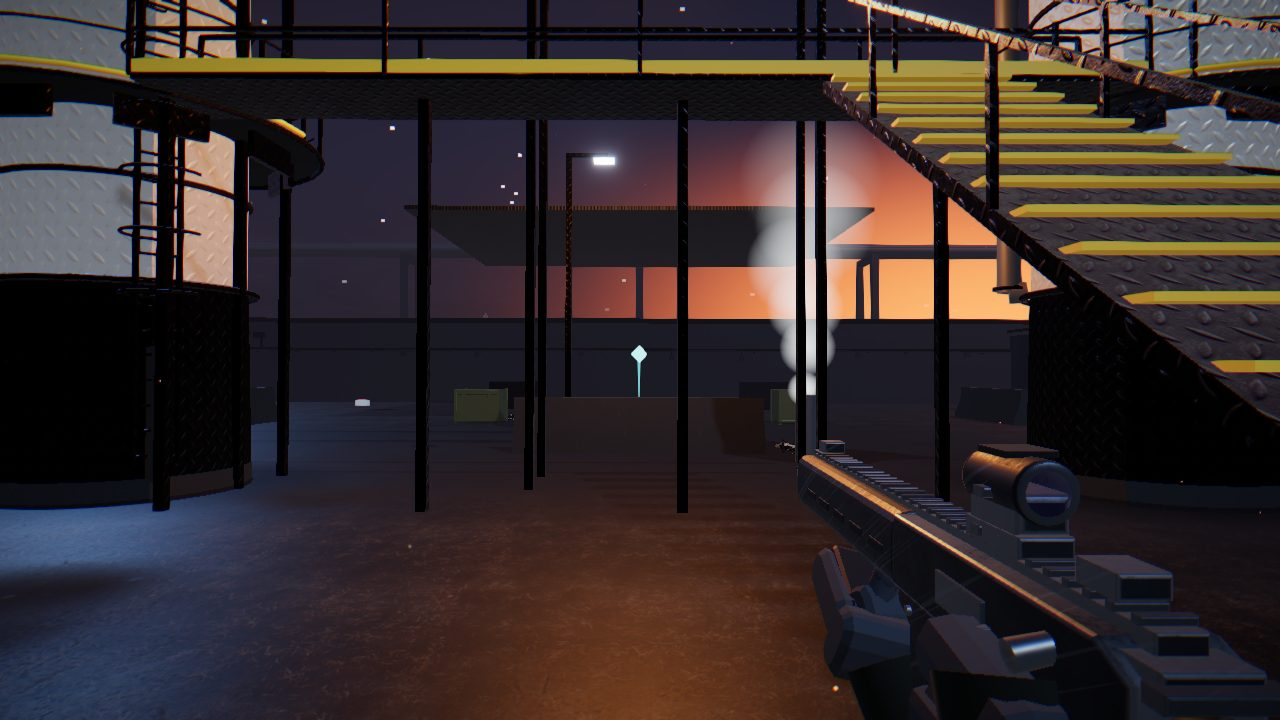
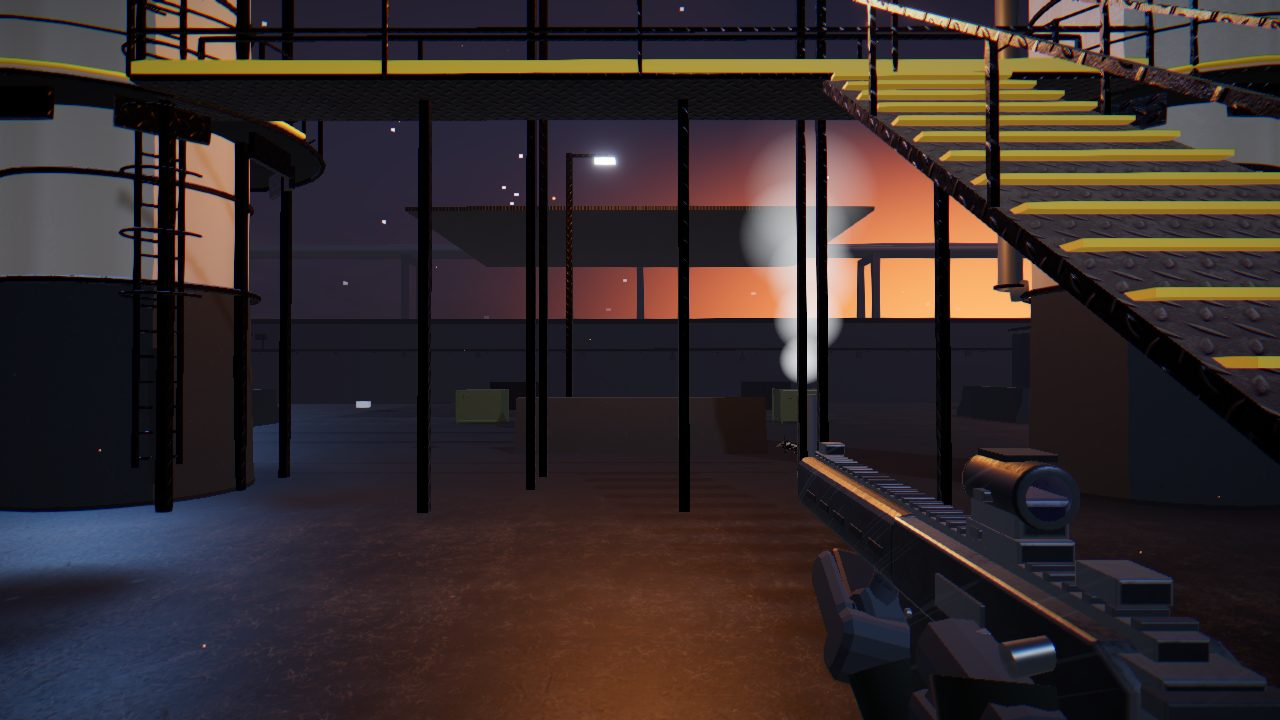
Cinder Yard's tanks hold against a bright sky: weathered toward the base, column skirts in concrete

diff --git a/apps/web/src/engine/scene/refineryKit.ts b/apps/web/src/engine/scene/refineryKit.ts
@@ -205,7 +205,8 @@ export function buildColumn(c: ColumnSpec): KitGeometry {
   const r = c.size / 2 - 0.1, h = c.height, { x, z } = c;
   // Skirt, with a flared base ring and an access opening (a dark recess).
   cyl(out, 'concrete', r + 0.08, r + 0.1, 0.3, x, 0.15, z, 32);
-  cyl(out, 'steel', r + 0.02, r + 0.08, 2.4, x, 1.5, z, 32);
+  // The skirt: fireproofed in concrete, as real column skirts are (tread plate here read as floor plating).
+  cyl(out, 'concrete', r + 0.02, r + 0.08, 2.4, x, 1.5, z, 32);
   ring(out, 'steel', r + 0.12, 0.05, x, 2.7, z, 32);
   box(out, 'dark', 0.9, 1.6, 0.1, x + (r + 0.25) * Math.SQRT1_2, 1.1, z + (r + 0.25) * Math.SQRT1_2, -Math.PI / 4);
   // Vessel with heads.
@@ -400,9 +401,33 @@ export function mergeKit(parts: KitGeometry[]): Partial<Record<KitMaterial, THRE
     });
     const merged = mergeGeometries(flat, false);
     flat.forEach((g) => g.dispose());
+    if (merged && m === 'tank') weather(merged);
     if (merged) { merged.computeBoundingSphere(); out[m] = merged; }
   }
   return out;
+}
+
+/** Grime colour at the base of a painted shell, and the height over which it fades. */
+const GRIME: [number, number, number] = [0.5, 0.43, 0.35];
+const GRIME_FADE = 11;
+
+/**
+ * Baked weathering for painted shells (tanks, column shells, roofs), as vertex
+ * colours multiplied into the paint: dirt and rust bleed toward the base, fading out
+ * by GRIME_FADE metres, uneven around the shell so the gradient between a shell's
+ * bottom and top vertices draws as faint vertical streaks. Free at draw time.
+ */
+export function weather(g: THREE.BufferGeometry): void {
+  const p = g.attributes.position as THREE.BufferAttribute;
+  const c = new Float32Array(p.count * 3);
+  for (let i = 0; i < p.count; i++) {
+    const x = p.getX(i), y = p.getY(i), z = p.getZ(i);
+    // A stable per-position hash: shared vertices (non-indexed copies) agree.
+    const h = Math.abs(Math.sin(Math.round(x * 7) * 12.9898 + Math.round(z * 7) * 78.233) * 43758.5453) % 1;
+    const dirt = Math.min(1, Math.max(0, 1 - y / GRIME_FADE)) * (0.7 + 0.3 * h);
+    for (let k = 0; k < 3; k++) c[i * 3 + k] = 1 - (1 - GRIME[k]) * dirt;
+  }
+  g.setAttribute('color', new THREE.BufferAttribute(c, 3));
 }
 
 /** Triangle count of a kit geometry set (for budgets and tests). */

diff --git a/apps/web/src/engine/scene/LevelArt.tsx b/apps/web/src/engine/scene/LevelArt.tsx
@@ -361,6 +361,11 @@ export function LevelArt({ level, minimal = false, colourOnly = false, lit = tru
       tank: level.id === 'cinder_yard'
         ? tri(painted(concrete), { color: '#a29e94', roughness: 0.6, metalness: 0.35 }, 4.5)
         : tri(plate, { color: '#c8c3b8', roughness: 0.45, metalness: 0.6 }, 2.4),
+      // The kit's tanks and columns carry baked weathering (vertex colours from
+      // refineryKit's mergeKit): the same paint, grimed toward the base.
+      tankKit: level.id === 'cinder_yard'
+        ? tri(painted(concrete), { color: '#969187', roughness: 0.62, metalness: 0.25, vertexColors: true }, 4.5)
+        : tri(plate, { color: '#c8c3b8', roughness: 0.45, metalness: 0.6, vertexColors: true }, 2.4),
       rust: tri(plate, { color: '#7a4a32', roughness: 0.7, metalness: 0.45 }, 2.4),
       pipe: new THREE.MeshStandardMaterial({ color: '#6b6e72', roughness: 0.45, metalness: 0.7 }),
       hazard: new THREE.MeshStandardMaterial({ color: '#c9a227', roughness: 0.6 }),

diff --git a/apps/web/src/engine/scene/RefineryArt.tsx b/apps/web/src/engine/scene/RefineryArt.tsx
@@ -66,7 +66,7 @@ export function buildSiteKit(level: LevelDef): KitGeometry[] {
 export function RefineryArt({ level, mats }: { level: LevelDef; mats: Record<string, THREE.Material> }) {
   const merged = useMemo(() => mergeKit(buildSiteKit(level)), [level]);
   useEffect(() => () => { for (const g of Object.values(merged)) g?.dispose(); }, [merged]);
-  const material = (m: KitMaterial) => (m === 'dark' ? mats.frame : mats[m]) ?? mats.steel;
+  const material = (m: KitMaterial) => (m === 'dark' ? mats.frame : m === 'tank' ? mats.tankKit ?? mats.tank : mats[m]) ?? mats.steel;
   return (
     <group>
       {(Object.entries(merged) as [KitMaterial, THREE.BufferGeometry][]).map(([m, g]) => (

diff --git a/docs/contract-zero/visual-renaissance/REPORT.md b/docs/contract-zero/visual-renaissance/REPORT.md
@@ -113,6 +113,27 @@ never used.
 - Not verified by eye: whether the model's `strafeL`/`strafeR` step to the side their
   names say (stills can't show it). If mirrored, it is one line in `enemyGait.ts`.
 
+## Stage F: Cinder Yard's tanks by day
+
+By day the tank farm read as white paper against the smog sky (tank 164 luma, sky 196,
+at the start view). Measured, not guessed:
+
+- **Not the paint.** A much darker, less metallic paint moved the shell 13 points: the
+  sun, sky, fill and ambient together sit those faces on the tone curve's shoulder.
+- **Not the haze.** Pushing the day smog back (0.7 → 0.85 of the fog distance) changed
+  the shell by 0.3 points; reverted.
+- **Flatness.** Every shell was one clean paint from base to roof. `weather()` in
+  `refineryKit.ts` now bakes vertex colours into the merged tank/column geometry:
+  grime and rust bleed toward the base, fading by 11 m, uneven around the shell so the
+  gradient draws faint vertical streaks. One extra material (`tankKit`) so nothing
+  without the colours can turn black; no extra draws or textures.
+- Column skirts were wrapped in tread plate (read as floor plating); they are concrete
+  fireproofing now, as on real columns.
+
+Result: tank 138 (base 134, upper 145) against the same 196 sky: contrast 33 → 58. Night
+checked: shells hold their shape against the flare glow. Cinder Yard High 10.6 ms / 286
+draws (10.2 ms / 286 before; within run-to-run noise).
+
 ## Stage E (partial): enemies and the HUD
 
 - Enemy rifles get the same `finishWeapon` surface pass as the player's weapons.
@@ -125,7 +146,7 @@ never used.
 
 | Site · tier | Baseline | Unmeasured branch state | Now |
 | --- | --- | --- | --- |
-| Cinder Yard · desktop High | 7.9 ms · 252 draws | 20.0 ms · 534 draws | **10.2 ms · 286 draws** |
+| Cinder Yard · desktop High | 7.9 ms · 252 draws | 20.0 ms · 534 draws | **10.6 ms · 286 draws** |
 | Dustline · desktop High | 6.9 ms | 15.1 ms | ~10 ms |
 | Blacksite · desktop High | 8.4 ms | 18.3 ms | ~10.5 ms |
 | Cinder Yard · mobile touch | 7.0 ms | 8.7 ms | 8.6 ms |

diff --git a/docs/contract-zero/visual-renaissance/GALLERY.md b/docs/contract-zero/visual-renaissance/GALLERY.md
@@ -10,8 +10,8 @@ Views per site: `start` (the spawn), `entry-back` (looking back at the way in),
 
 | Pair | What to look at |
 | --- | --- |
-| `cinder-yard-day-start` | Tanks with shell courses, girders and stair towers instead of plain cylinders; the tracked, ragged-edged road laid into the ground; the red-dot carbine. |
-| `cinder-yard-day-push` | The processing deck: catwalk treads, column platforms, plate-relief tank paint, contact pads under the racks. |
+| `cinder-yard-day-start` | Tanks with shell courses, girders and stair towers instead of plain cylinders, weathered toward the base so they hold against a bright sky; the tracked, ragged-edged road laid into the ground; the red-dot carbine. |
+| `cinder-yard-day-push` | The processing deck: catwalk treads, column platforms on concrete-fireproofed skirts, weathered column shells, contact pads under the racks. |
 | `cinder-yard-dusk-cargo-side` | The dusk key swung warm with quieter ambient; enemies holding finished rifles. |
 | `cinder-yard-night-push` | Night held readable by the practicals; the flare derrick against the sky. |
 | `dustline-depot-day-start` | SMAA on the container edges; the road blend; contact pads under trucks and containers. |
